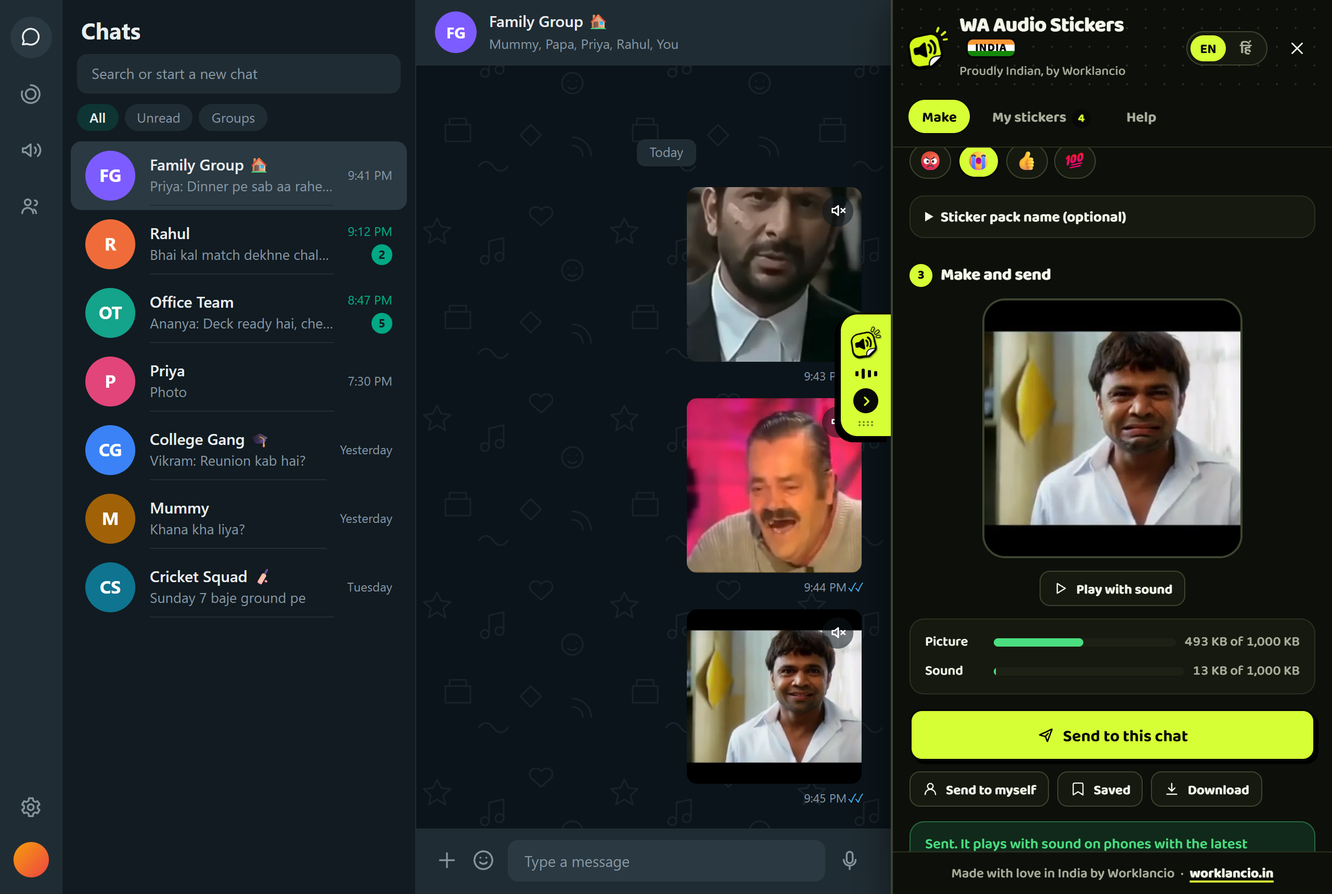
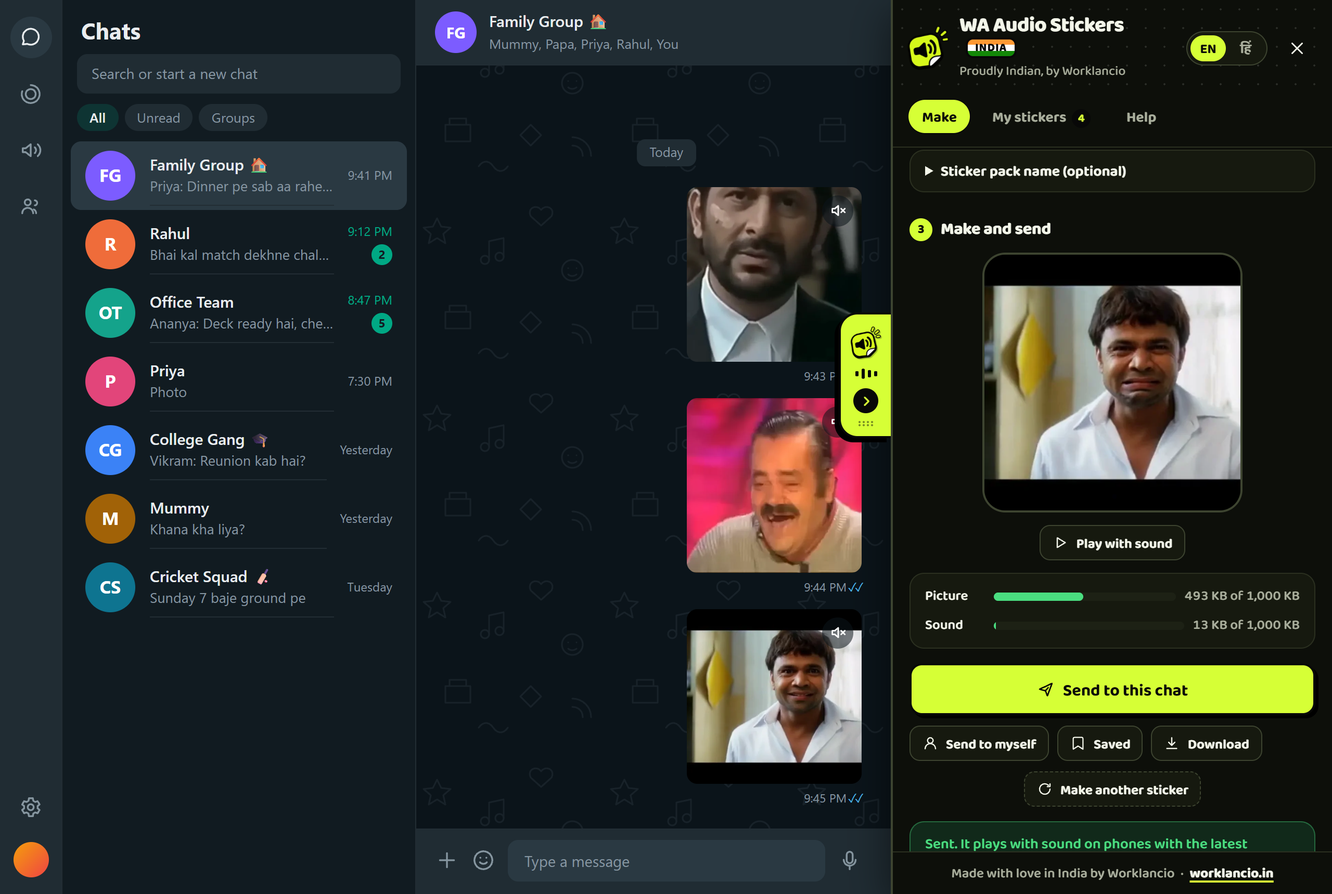
1.3.0: start over, drop anywhere, branded making screen
- Change swaps the clip straight away; Remove starts over; Make another
  appears once a sticker is made; asks first if a made sticker is not yet
  sent or saved
- Drag a file anywhere over the panel: a lime cover with a bouncing icon,
  and dropping replaces the clip
- Making your sticker: the logo wiggles in a spinning ring with sound bars,
  a big percentage and the step (sound, frames, packing)
- Screenshots retaken

Changed region(s): [[0.6562, 0.1541, 1.0, 0.8936], [0.5, 0.4314, 0.6562, 0.6471], [0.5, 0.1849, 0.6562, 0.4006]]

diff --git a/docs/index.html b/docs/index.html
@@ -30,7 +30,7 @@
 <meta name="twitter:title" content="WhatsApp Audio Stickers Maker: Free Stickers With Sound">
 <meta name="twitter:description" content="Make WhatsApp audio stickers (stickers with sound) from any video, GIF, photo or your voice, and send them from WhatsApp Web. Free, private, Hindi and English.">
 <meta name="twitter:image" content="https://xaviermsd.github.io/whatsapp-audio-stickers-india/brand/social-preview.png">
-<script type="application/ld+json">{"@context":"https://schema.org","@graph":[{"@type":"Organization","@id":"https://www.worklancio.in/#org","name":"Worklancio","url":"https://www.worklancio.in","email":"hello@worklancio.in","logo":"https://xaviermsd.github.io/whatsapp-audio-stickers-india/brand/worklancio-on-light.png","sameAs":["https://github.com/xaviermsd/whatsapp-audio-stickers-india","https://github.com/xaviermsd"],"founder":{"@type":"Person","name":"Harsh Prajapati"}},{"@type":"SoftwareApplication","@id":"https://xaviermsd.github.io/whatsapp-audio-stickers-india/#app","name":"WA Audio Stickers India","alternateName":["WhatsApp Audio Stickers India","WhatsApp audio sticker maker","WhatsApp sticker with sound maker"],"applicationCategory":"BrowserApplication","applicationSubCategory":"Chrome extension","operatingSystem":"Windows, macOS, Linux (Chrome, Edge, Brave 116+)","softwareVersion":"1.2.0","dateModified":"2026-11-27","description":"Free, open-source Chrome extension that makes WhatsApp stickers with sound from any video, GIF, photo or your voice, and sends them from WhatsApp Web.","url":"https://xaviermsd.github.io/whatsapp-audio-stickers-india/","downloadUrl":"https://github.com/xaviermsd/whatsapp-audio-stickers-india/releases/latest","installUrl":"https://github.com/xaviermsd/whatsapp-audio-stickers-india/releases/latest","screenshot":["https://xaviermsd.github.io/whatsapp-audio-stickers-india/screenshots/00-chat-light.png","https://xaviermsd.github.io/whatsapp-audio-stickers-india/screenshots/04-ready-light.png"],"image":"https://xaviermsd.github.io/whatsapp-audio-stickers-india/brand/social-preview.png","featureList":["Make WhatsApp audio stickers from video, GIF, photo or audio","Record voice or webcam video inside WhatsApp Web","Captions in Hindi, English and Hinglish","Speed control and boomerang loop","Saved sticker library with pack export and import","App in Hindi and English","Works offline on your computer, no upload"],"inLanguage":["en","hi"],"isAccessibleForFree":true,"license":"https://opensource.org/licenses/MIT","offers":{"@type":"Offer","price":"0","priceCurrency":"INR"},"author":{"@id":"https://www.worklancio.in/#org"},"publisher":{"@id":"https://www.worklancio.in/#org"},"codeRepository":"https://github.com/xaviermsd/whatsapp-audio-stickers-india","keywords":"WhatsApp audio stickers, WhatsApp stickers with sound, sound stickers WhatsApp, audio sticker maker, WhatsApp sticker maker with sound, how to send audio stickers on WhatsApp, WhatsApp Web stickers, voice sticker WhatsApp, meme stickers with sound, Hindi stickers, Chrome extension WhatsApp, WhatsApp audio sticker kaise banaye, awaaz wale sticker"},{"@type":"WebSite","@id":"https://xaviermsd.github.io/whatsapp-audio-stickers-india/#site","url":"https://xaviermsd.github.io/whatsapp-audio-stickers-india/","name":"WA Audio Stickers India","inLanguage":"en","publisher":{"@id":"https://www.worklancio.in/#org"}},{"@type":"FAQPage","mainEntity":[{"@type":"Question","name":"What are WhatsApp audio stickers?","acceptedAnswer":{"@type":"Answer","text":"WhatsApp audio stickers (also called sound stickers) are animated stickers that play a short sound when you tap them. WA Audio Stickers India lets you make them from any video, GIF, photo or your own voice and send them from WhatsApp Web."}},{"@type":"Question","name":"How do I send a sticker with sound on WhatsApp?","acceptedAnswer":{"@type":"Answer","text":"Install the free WA Audio Stickers India extension in Chrome, Edge or Brave, open web.whatsapp.com, click the lime tab, pick or record a clip, press Make sticker, then Send to this chat. Your friend taps the sticker and hears the sound."}},{"@type":"Question","name":"How do I make a WhatsApp sticker with sound from a video?","acceptedAnswer":{"@type":"Answer","text":"Open the WA Audio Stickers India panel in WhatsApp Web, drop your video (MP4, WebM or MOV), drag the two handles on the waveform to pick up to 15 seconds, press Make sticker and send it. The video keeps its own sound."}},{"@type":"Question","name":"How do I make a voice sticker for WhatsApp?","acceptedAnswer":{"@type":"Answer","text":"Press Record voice in the panel, speak, then stop. We turn your voice into a sticker with a moving sound wave, or put it over a photo you choose, ready to send."}},{"@type":"Question","name":"How do I pick the funny part of a clip?","acceptedAnswer":{"@type":"Answer","text":"Drag the two lime handles on the waveform, or drag the middle to slide the whole part. Press Play this part to hear it first, or type exact times in From and To."}},{"@type":"Question","name":"Which files can I turn into a sound sticker?","acceptedAnswer":{"@type":"Answer","text":"Videos (MP4, WebM, MOV), GIFs, photos (PNG, JPG, WebP) and audio (MP3, M4A, WAV, OGG). You can also record your voice or a selfie video right in the panel."}},{"@type":"Question","name":"Is WA Audio Stickers India free?","acceptedAnswer":{"@type":"Answer","text":"Yes. It is completely free and open source under the MIT licence, with no sign-up, no ads and no paid version."}},{"@type":"Question","name":"Is it safe and private?","acceptedAnswer":{"@type":"Answer","text":"Yes. Everything is made on your own computer. The extension only asks for storage and web.whatsapp.com, has no server and no tracking, and sends only when you click, one sticker at a time."}},{"@type":"Question","name":"Can I make audio stickers in Hindi?","acceptedAnswer":{"@type":"Answer","text":"Yes. You can add captions in Hindi, English or Hinglish, and the whole app can switch to Hindi with one tap."}},{"@type":"Question","name":"Will my friend hear the sound?","acceptedAnswer":{"@type":"Answer","text":"Yes, if their WhatsApp is up to date. The sound plays on Android, iPhone and WhatsApp Web when they tap the sticker."}},{"@type":"Question","name":"Does it work on my phone?","acceptedAnswer":{"@type":"Answer","text":"It runs on a computer, in WhatsApp Web. Use Send to myself, then forward or star the sticker from your phone to keep it in your sticker tray."}},{"@type":"Question","name":"Why does my sticker have no sound for my friend?","acceptedAnswer":{"@type":"Answer","text":"Their WhatsApp needs to be up to date to play sound stickers. If WhatsApp Web itself says it sent the picture without sound, reload WhatsApp Web and send again after a few seconds."}},{"@type":"Question","name":"How do I update to the newest version?","acceptedAnswer":{"@type":"Answer","text":"Download the latest zip from GitHub Releases, Extract All, then on chrome://extensions remove the old one and Load unpacked the new folder. Your saved stickers stay in your browser."}},{"@type":"Question","name":"Is this an official WhatsApp tool?","acceptedAnswer":{"@type":"Answer","text":"No. It is an unofficial, open-source tool made by Worklancio in India. It is not made by, linked to or approved by WhatsApp or Meta."}}]},{"@type":"HowTo","name":"How to make and send a WhatsApp audio sticker","totalTime":"PT2M","estimatedCost":{"@type":"MonetaryAmount","currency":"INR","value":"0"},"tool":[{"@type":"HowToTool","name":"Chrome, Edge or Brave on a computer"},{"@type":"HowToTool","name":"WhatsApp Web"}],"step":[{"@type":"HowToStep","position":1,"name":"Download the extension","text":"Get the free zip from the GitHub Releases page and unzip it.","url":"https://xaviermsd.github.io/whatsapp-audio-stickers-india/#step-1"},{"@type":"HowToStep","position":2,"name":"Load it in your browser","text":"Open chrome://extensions (or edge:// or brave://), turn on Developer mode and click Load unpacked.","url":"https://xaviermsd.github.io/whatsapp-audio-stickers-india/#step-2"},{"@type":"HowToStep","position":3,"name":"Open WhatsApp Web","text":"Go to web.whatsapp.com, open a chat and click the lime tab on the right edge.","url":"https://xaviermsd.github.io/whatsapp-audio-stickers-india/#step-3"},{"@type":"HowToStep","position":4,"name":"Pick or record a clip","text":"Drop a video, GIF, photo or audio file, or record your voice or a selfie video.","url":"https://xaviermsd.github.io/whatsapp-audio-stickers-india/#step-4"},{"@type":"HowToStep","position":5,"name":"Cut and style","text":"Drag the handles on the waveform to pick the best part (up to 15 seconds), play it, then set speed, volume and an optional caption.","url":"https://xaviermsd.github.io/whatsapp-audio-stickers-india/#step-5"},{"@type":"HowToStep","position":6,"name":"Make and send","text":"Press Make sticker, then Send to this chat. It plays with sound when tapped.","url":"https://xaviermsd.github.io/whatsapp-audio-stickers-india/#step-6"}]}]}</script>
+<script type="application/ld+json">{"@context":"https://schema.org","@graph":[{"@type":"Organization","@id":"https://www.worklancio.in/#org","name":"Worklancio","url":"https://www.worklancio.in","email":"hello@worklancio.in","logo":"https://xaviermsd.github.io/whatsapp-audio-stickers-india/brand/worklancio-on-light.png","sameAs":["https://github.com/xaviermsd/whatsapp-audio-stickers-india","https://github.com/xaviermsd"],"founder":{"@type":"Person","name":"Harsh Prajapati"}},{"@type":"SoftwareApplication","@id":"https://xaviermsd.github.io/whatsapp-audio-stickers-india/#app","name":"WA Audio Stickers India","alternateName":["WhatsApp Audio Stickers India","WhatsApp audio sticker maker","WhatsApp sticker with sound maker"],"applicationCategory":"BrowserApplication","applicationSubCategory":"Chrome extension","operatingSystem":"Windows, macOS, Linux (Chrome, Edge, Brave 116+)","softwareVersion":"1.3.0","dateModified":"2026-11-27","description":"Free, open-source Chrome extension that makes WhatsApp stickers with sound from any video, GIF, photo or your voice, and sends them from WhatsApp Web.","url":"https://xaviermsd.github.io/whatsapp-audio-stickers-india/","downloadUrl":"https://github.com/xaviermsd/whatsapp-audio-stickers-india/releases/latest","installUrl":"https://github.com/xaviermsd/whatsapp-audio-stickers-india/releases/latest","screenshot":["https://xaviermsd.github.io/whatsapp-audio-stickers-india/screenshots/00-chat-light.png","https://xaviermsd.github.io/whatsapp-audio-stickers-india/screenshots/04-ready-light.png"],"image":"https://xaviermsd.github.io/whatsapp-audio-stickers-india/brand/social-preview.png","featureList":["Make WhatsApp audio stickers from video, GIF, photo or audio","Record voice or webcam video inside WhatsApp Web","Captions in Hindi, English and Hinglish","Speed control and boomerang loop","Saved sticker library with pack export and import","App in Hindi and English","Works offline on your computer, no upload"],"inLanguage":["en","hi"],"isAccessibleForFree":true,"license":"https://opensource.org/licenses/MIT","offers":{"@type":"Offer","price":"0","priceCurrency":"INR"},"author":{"@id":"https://www.worklancio.in/#org"},"publisher":{"@id":"https://www.worklancio.in/#org"},"codeRepository":"https://github.com/xaviermsd/whatsapp-audio-stickers-india","keywords":"WhatsApp audio stickers, WhatsApp stickers with sound, sound stickers WhatsApp, audio sticker maker, WhatsApp sticker maker with sound, how to send audio stickers on WhatsApp, WhatsApp Web stickers, voice sticker WhatsApp, meme stickers with sound, Hindi stickers, Chrome extension WhatsApp, WhatsApp audio sticker kaise banaye, awaaz wale sticker"},{"@type":"WebSite","@id":"https://xaviermsd.github.io/whatsapp-audio-stickers-india/#site","url":"https://xaviermsd.github.io/whatsapp-audio-stickers-india/","name":"WA Audio Stickers India","inLanguage":"en","publisher":{"@id":"https://www.worklancio.in/#org"}},{"@type":"FAQPage","mainEntity":[{"@type":"Question","name":"What are WhatsApp audio stickers?","acceptedAnswer":{"@type":"Answer","text":"WhatsApp audio stickers (also called sound stickers) are animated stickers that play a short sound when you tap them. WA Audio Stickers India lets you make them from any video, GIF, photo or your own voice and send them from WhatsApp Web."}},{"@type":"Question","name":"How do I send a sticker with sound on WhatsApp?","acceptedAnswer":{"@type":"Answer","text":"Install the free WA Audio Stickers India extension in Chrome, Edge or Brave, open web.whatsapp.com, click the lime tab, pick or record a clip, press Make sticker, then Send to this chat. Your friend taps the sticker and hears the sound."}},{"@type":"Question","name":"How do I make a WhatsApp sticker with sound from a video?","acceptedAnswer":{"@type":"Answer","text":"Open the WA Audio Stickers India panel in WhatsApp Web, drop your video (MP4, WebM or MOV), drag the two handles on the waveform to pick up to 15 seconds, press Make sticker and send it. The video keeps its own sound."}},{"@type":"Question","name":"How do I make a voice sticker for WhatsApp?","acceptedAnswer":{"@type":"Answer","text":"Press Record voice in the panel, speak, then stop. We turn your voice into a sticker with a moving sound wave, or put it over a photo you choose, ready to send."}},{"@type":"Question","name":"How do I pick the funny part of a clip?","acceptedAnswer":{"@type":"Answer","text":"Drag the two lime handles on the waveform, or drag the middle to slide the whole part. Press Play this part to hear it first, or type exact times in From and To."}},{"@type":"Question","name":"Which files can I turn into a sound sticker?","acceptedAnswer":{"@type":"Answer","text":"Videos (MP4, WebM, MOV), GIFs, photos (PNG, JPG, WebP) and audio (MP3, M4A, WAV, OGG). You can also record your voice or a selfie video right in the panel."}},{"@type":"Question","name":"Is WA Audio Stickers India free?","acceptedAnswer":{"@type":"Answer","text":"Yes. It is completely free and open source under the MIT licence, with no sign-up, no ads and no paid version."}},{"@type":"Question","name":"Is it safe and private?","acceptedAnswer":{"@type":"Answer","text":"Yes. Everything is made on your own computer. The extension only asks for storage and web.whatsapp.com, has no server and no tracking, and sends only when you click, one sticker at a time."}},{"@type":"Question","name":"Can I make audio stickers in Hindi?","acceptedAnswer":{"@type":"Answer","text":"Yes. You can add captions in Hindi, English or Hinglish, and the whole app can switch to Hindi with one tap."}},{"@type":"Question","name":"Will my friend hear the sound?","acceptedAnswer":{"@type":"Answer","text":"Yes, if their WhatsApp is up to date. The sound plays on Android, iPhone and WhatsApp Web when they tap the sticker."}},{"@type":"Question","name":"Does it work on my phone?","acceptedAnswer":{"@type":"Answer","text":"It runs on a computer, in WhatsApp Web. Use Send to myself, then forward or star the sticker from your phone to keep it in your sticker tray."}},{"@type":"Question","name":"Why does my sticker have no sound for my friend?","acceptedAnswer":{"@type":"Answer","text":"Their WhatsApp needs to be up to date to play sound stickers. If WhatsApp Web itself says it sent the picture without sound, reload WhatsApp Web and send again after a few seconds."}},{"@type":"Question","name":"How do I update to the newest version?","acceptedAnswer":{"@type":"Answer","text":"Download the latest zip from GitHub Releases, Extract All, then on chrome://extensions remove the old one and Load unpacked the new folder. Your saved stickers stay in your browser."}},{"@type":"Question","name":"Is this an official WhatsApp tool?","acceptedAnswer":{"@type":"Answer","text":"No. It is an unofficial, open-source tool made by Worklancio in India. It is not made by, linked to or approved by WhatsApp or Meta."}}]},{"@type":"HowTo","name":"How to make and send a WhatsApp audio sticker","totalTime":"PT2M","estimatedCost":{"@type":"MonetaryAmount","currency":"INR","value":"0"},"tool":[{"@type":"HowToTool","name":"Chrome, Edge or Brave on a computer"},{"@type":"HowToTool","name":"WhatsApp Web"}],"step":[{"@type":"HowToStep","position":1,"name":"Download the extension","text":"Get the free zip from the GitHub Releases page and unzip it.","url":"https://xaviermsd.github.io/whatsapp-audio-stickers-india/#step-1"},{"@type":"HowToStep","position":2,"name":"Load it in your browser","text":"Open chrome://extensions (or edge:// or brave://), turn on Developer mode and click Load unpacked.","url":"https://xaviermsd.github.io/whatsapp-audio-stickers-india/#step-2"},{"@type":"HowToStep","position":3,"name":"Open WhatsApp Web","text":"Go to web.whatsapp.com, open a chat and click the lime tab on the right edge.","url":"https://xaviermsd.github.io/whatsapp-audio-stickers-india/#step-3"},{"@type":"HowToStep","position":4,"name":"Pick or record a clip","text":"Drop a video, GIF, photo or audio file, or record your voice or a selfie video.","url":"https://xaviermsd.github.io/whatsapp-audio-stickers-india/#step-4"},{"@type":"HowToStep","position":5,"name":"Cut and style","text":"Drag the handles on the waveform to pick the best part (up to 15 seconds), play it, then set speed, volume and an optional caption.","url":"https://xaviermsd.github.io/whatsapp-audio-stickers-india/#step-5"},{"@type":"HowToStep","position":6,"name":"Make and send","text":"Press Make sticker, then Send to this chat. It plays with sound when tapped.","url":"https://xaviermsd.github.io/whatsapp-audio-stickers-india/#step-6"}]}]}</script>
 <!-- /SEO:HEAD -->
 <link rel="icon" href="assets/favicon-32.png" sizes="32x32">
 <link rel="apple-touch-icon" href="assets/icon-128.png">

diff --git a/extension/ui/panel.js b/extension/ui/panel.js
@@ -93,6 +93,7 @@
     launcher = buildHandle();
     panel = h("div", { class: "panel", role: "dialog", "aria-label": t("title"), hidden: true });
     wrap.append(launcher, panel);
+    setupPanelDrop();
     document.documentElement.append(host);
     applyTheme();
     new MutationObserver(applyTheme).observe(document.body || document.documentElement, { attributes: true, attributeFilter: ["class"] });
@@ -331,12 +332,7 @@
           drop.dataset.over = "true";
         },
         ondragleave: () => (drop.dataset.over = "false"),
-        ondrop: (e) => {
-          e.preventDefault();
-          drop.dataset.over = "false";
-          const f = e.dataTransfer.files[0];
-          f && pick(f);
-        },
+        ondrop: () => (drop.dataset.over = "false"), // the panel-wide drop handler takes the file
       },
       h("span", { class: "bubble" }, icon("upload")),
       h("strong", { text: job.state === "loading" ? J.LABELS.loading[WASI.i18n.lang] || J.LABELS.loading.en : t("drop") }),
@@ -446,7 +442,7 @@
       {},
       stepTitle(1, "step1"),
       pv,
-      h("div", { class: "row" }, h("span", { class: "filename", style: "flex:1", text: s.file ? s.file.name : "" }), btn(t("chooseFile"), "upload", resetToPick, "btn small")),
+      h("div", { class: "row clip-row" }, h("span", { class: "filename", style: "flex:1", text: s.file ? s.file.name : "" }), changePicker(), btn(t("changeClip"), "upload", () => mainEl.querySelector(".change-picker").click(), "btn small"), btn(t("removeClip"), "trash", () => startOver(), "btn small danger")),
       extra
     );
   }
@@ -817,10 +813,23 @@
     if (job.state === "building") {
       const bar = h("div", {}, h("div", { style: `width:${Math.round(job.progress * 100)}%` }));
       bar.className = "progress";
+      const art = h(
+        "div",
+        { class: "buildart", "aria-hidden": "true" },
+        h("div", { class: "buildart-ring" }),
+        logoUrl ? h("img", { class: "buildart-logo", src: logoUrl, alt: "", draggable: "false" }) : h("div", { class: "buildart-logo" }, icon("sound")),
+        h("div", { class: "buildart-waves" }, h("i"), h("i"), h("i"), h("i"), h("i"))
+      );
       sec.append(
-        h("p", { class: "length", text: J.LABELS.building[WASI.i18n.lang] || J.LABELS.building.en }),
-        bar,
-        h("div", { class: "row", style: "margin-top:10px" }, btn(t("cancel"), "close", cancelBuild))
+        h(
+          "div",
+          { class: "buildbox", role: "status", "aria-live": "polite" },
+          art,
+          h("div", { class: "buildpct", text: Math.round(job.progress * 100) + "%" }),
+          h("p", { class: "buildstage", text: stageText(job.progress) }),
+          bar,
+          h("div", { class: "row", style: "justify-content:center;margin-top:12px" }, btn(t("cancel"), "close", cancelBuild, "btn small"))
+        )
       );
       return sec;
     }
@@ -842,7 +851,8 @@
         h("div", { class: "row" },
           btn(t("sendMe"), "user", () => sendBuilt("me"), "btn small"),
           btn(built.savedId ? t("saved") : t("save"), "save", saveBuilt, "btn small"),
-          btn(t("download"), "download", () => download(built), "btn small"))
+          btn(t("download"), "download", () => download(built), "btn small")),
+        h("div", { class: "row another-row" }, btn(t("makeAnother"), "refresh", () => startOver(), "btn small ghost"))
       );
       if (job.state === "sending") sec.querySelectorAll("button").forEach((b) => (b.disabled = true));
       return sec;
@@ -859,6 +869,79 @@
   function refreshBuild() {
     const sec = mainEl && mainEl.querySelector("[data-build]");
     if (sec) sec.replaceWith(buildSection());
+  }
+
+  // ---------- start over, change the clip ----------
+  // Which part of the work is running, from the progress the build reports (sound 0-10%, frames 10-55%, file 55-100%).
+  function stageText(p) {
+    return p < 0.1 ? t("stageSound") : p < 0.55 ? t("stageFrames") : t("stagePack");
+  }
+
+  // A sticker that was made but neither sent nor saved would be lost: ask first.
+  function startOver() {
+    const unsent = built && !built.savedId && job.state !== "sent";
+    if (unsent && !root.confirm(t("confirmDiscard"))) return;
+    resetToPick();
+  }
+
+  // A hidden file input that swaps the clip straight away (no trip back to the empty screen).
+  function changePicker() {
+    const input = h("input", { type: "file", class: "change-picker", accept: "video/*,image/*,audio/*,.gif,.webp,.mp3,.m4a,.ogg,.opus,.wav", hidden: true });
+    input.addEventListener("change", () => {
+      const f = input.files[0];
+      if (!f) return;
+      const unsent = built && !built.savedId && job.state !== "sent";
+      if (unsent && !root.confirm(t("confirmDiscard"))) return;
+      cancelBuild();
+      pick(f);
+    });
+    return input;
+  }
+
+  // Drag a file anywhere over the panel: a lime cover with a bouncing icon, drop to use it (replaces the clip).
+  function setupPanelDrop() {
+    let depth = 0;
+    const cover = h(
+      "div",
+      { class: "dropcover", "aria-hidden": "true" },
+      h("div", { class: "dropcover-card" }, h("span", { class: "dropcover-icon" }, icon("upload")), h("strong", { text: t("dropHere") }), h("span", { text: t("dropKinds") }))
+    );
+    panel.parentElement.append(cover);
+    const hasFiles = (e) => e.dataTransfer && [...e.dataTransfer.types].includes("Files");
+    const show = (on) => {
+      cover.classList.toggle("on", on);
+      host.dataset.wasiDrag = String(on);
+    };
+    panel.addEventListener("dragenter", (e) => {
+      if (!hasFiles(e)) return;
+      e.preventDefault();
+      depth++;
+      show(true);
+    });
+    panel.addEventListener("dragover", (e) => {
+      if (!hasFiles(e)) return;
+      e.preventDefault();
+      e.dataTransfer.dropEffect = "copy";
+    });
+    panel.addEventListener("dragleave", (e) => {
+      if (!hasFiles(e)) return;
+      depth = Math.max(0, depth - 1);
+      if (!depth) show(false);
+    });
+    panel.addEventListener("drop", (e) => {
+      if (!hasFiles(e)) return;
+      e.preventDefault();
+      e.stopPropagation();
+      depth = 0;
+      show(false);
+      const f = e.dataTransfer.files[0];
+      if (!f) return;
+      const unsent = built && !built.savedId && job.state !== "sent";
+      if (unsent && !root.confirm(t("confirmDiscard"))) return;
+      cancelBuild();
+      tab = "make";
+      pick(f);
+    });
   }
 
   // ---------- loading a clip ----------
@@ -1001,6 +1084,10 @@
       if (dispatch({ type: "progress", run, value: base + p * span })) {
         const bar = mainEl && mainEl.querySelector(".progress > div");
         if (bar) bar.style.width = `${Math.round(job.progress * 100)}%`;
+        const pct = mainEl && mainEl.querySelector(".buildpct");
+        if (pct) pct.textContent = Math.round(job.progress * 100) + "%";
+        const st = mainEl && mainEl.querySelector(".buildstage");
+        if (st) st.textContent = stageText(job.progress);
       }
     };
     let frames = [];

diff --git a/docs/hi/index.html b/docs/hi/index.html
@@ -28,7 +28,7 @@
 <meta name="twitter:title" content="WhatsApp ऑडियो स्टिकर बनाएँ: आवाज़ वाले स्टिकर, मुफ़्त">
 <meta name="twitter:description" content="किसी भी वीडियो, GIF, फ़ोटो या अपनी आवाज़ से आवाज़ वाले WhatsApp स्टिकर बनाएँ और WhatsApp Web से भेजें। मुफ़्त, निजी, हिंदी और English में।">
 <meta name="twitter:image" content="https://xaviermsd.github.io/whatsapp-audio-stickers-india/brand/social-preview.png">
-<script type="application/ld+json">{"@context":"https://schema.org","@graph":[{"@type":"Organization","@id":"https://www.worklancio.in/#org","name":"Worklancio","url":"https://www.worklancio.in","email":"hello@worklancio.in","logo":"https://xaviermsd.github.io/whatsapp-audio-stickers-india/brand/worklancio-on-light.png","sameAs":["https://github.com/xaviermsd/whatsapp-audio-stickers-india","https://github.com/xaviermsd"],"founder":{"@type":"Person","name":"Harsh Prajapati"}},{"@type":"SoftwareApplication","@id":"https://xaviermsd.github.io/whatsapp-audio-stickers-india/hi/#app","name":"WA Audio Stickers India","alternateName":["WhatsApp Audio Stickers India","WhatsApp audio sticker maker","WhatsApp sticker with sound maker"],"applicationCategory":"BrowserApplication","applicationSubCategory":"Chrome extension","operatingSystem":"Windows, macOS, Linux (Chrome, Edge, Brave 116+)","softwareVersion":"1.2.0","dateModified":"2026-11-27","description":"Free, open-source Chrome extension that makes WhatsApp stickers with sound from any video, GIF, photo or your voice, and sends them from WhatsApp Web.","url":"https://xaviermsd.github.io/whatsapp-audio-stickers-india/hi/","downloadUrl":"https://github.com/xaviermsd/whatsapp-audio-stickers-india/releases/latest","installUrl":"https://github.com/xaviermsd/whatsapp-audio-stickers-india/releases/latest","screenshot":["https://xaviermsd.github.io/whatsapp-audio-stickers-india/screenshots/00-chat-light.png","https://xaviermsd.github.io/whatsapp-audio-stickers-india/screenshots/04-ready-light.png"],"image":"https://xaviermsd.github.io/whatsapp-audio-stickers-india/brand/social-preview.png","featureList":["Make WhatsApp audio stickers from video, GIF, photo or audio","Record voice or webcam video inside WhatsApp Web","Captions in Hindi, English and Hinglish","Speed control and boomerang loop","Saved sticker library with pack export and import","App in Hindi and English","Works offline on your computer, no upload"],"inLanguage":"hi","isAccessibleForFree":true,"license":"https://opensource.org/licenses/MIT","offers":{"@type":"Offer","price":"0","priceCurrency":"INR"},"author":{"@id":"https://www.worklancio.in/#org"},"publisher":{"@id":"https://www.worklancio.in/#org"},"codeRepository":"https://github.com/xaviermsd/whatsapp-audio-stickers-india","keywords":"WhatsApp audio stickers, WhatsApp stickers with sound, sound stickers WhatsApp, audio sticker maker, WhatsApp sticker maker with sound, how to send audio stickers on WhatsApp, WhatsApp Web stickers, voice sticker WhatsApp, meme stickers with sound, Hindi stickers, Chrome extension WhatsApp, WhatsApp audio sticker kaise banaye, awaaz wale sticker"}]}</script>
+<script type="application/ld+json">{"@context":"https://schema.org","@graph":[{"@type":"Organization","@id":"https://www.worklancio.in/#org","name":"Worklancio","url":"https://www.worklancio.in","email":"hello@worklancio.in","logo":"https://xaviermsd.github.io/whatsapp-audio-stickers-india/brand/worklancio-on-light.png","sameAs":["https://github.com/xaviermsd/whatsapp-audio-stickers-india","https://github.com/xaviermsd"],"founder":{"@type":"Person","name":"Harsh Prajapati"}},{"@type":"SoftwareApplication","@id":"https://xaviermsd.github.io/whatsapp-audio-stickers-india/hi/#app","name":"WA Audio Stickers India","alternateName":["WhatsApp Audio Stickers India","WhatsApp audio sticker maker","WhatsApp sticker with sound maker"],"applicationCategory":"BrowserApplication","applicationSubCategory":"Chrome extension","operatingSystem":"Windows, macOS, Linux (Chrome, Edge, Brave 116+)","softwareVersion":"1.3.0","dateModified":"2026-11-27","description":"Free, open-source Chrome extension that makes WhatsApp stickers with sound from any video, GIF, photo or your voice, and sends them from WhatsApp Web.","url":"https://xaviermsd.github.io/whatsapp-audio-stickers-india/hi/","downloadUrl":"https://github.com/xaviermsd/whatsapp-audio-stickers-india/releases/latest","installUrl":"https://github.com/xaviermsd/whatsapp-audio-stickers-india/releases/latest","screenshot":["https://xaviermsd.github.io/whatsapp-audio-stickers-india/screenshots/00-chat-light.png","https://xaviermsd.github.io/whatsapp-audio-stickers-india/screenshots/04-ready-light.png"],"image":"https://xaviermsd.github.io/whatsapp-audio-stickers-india/brand/social-preview.png","featureList":["Make WhatsApp audio stickers from video, GIF, photo or audio","Record voice or webcam video inside WhatsApp Web","Captions in Hindi, English and Hinglish","Speed control and boomerang loop","Saved sticker library with pack export and import","App in Hindi and English","Works offline on your computer, no upload"],"inLanguage":"hi","isAccessibleForFree":true,"license":"https://opensource.org/licenses/MIT","offers":{"@type":"Offer","price":"0","priceCurrency":"INR"},"author":{"@id":"https://www.worklancio.in/#org"},"publisher":{"@id":"https://www.worklancio.in/#org"},"codeRepository":"https://github.com/xaviermsd/whatsapp-audio-stickers-india","keywords":"WhatsApp audio stickers, WhatsApp stickers with sound, sound stickers WhatsApp, audio sticker maker, WhatsApp sticker maker with sound, how to send audio stickers on WhatsApp, WhatsApp Web stickers, voice sticker WhatsApp, meme stickers with sound, Hindi stickers, Chrome extension WhatsApp, WhatsApp audio sticker kaise banaye, awaaz wale sticker"}]}</script>
 <!-- /SEO:HEAD -->
 <link rel="icon" href="../assets/favicon-32.png" sizes="32x32">
 <meta name="theme-color" content="#d6ff36">

diff --git a/extension/ui/styles.js b/extension/ui/styles.js
@@ -259,6 +259,56 @@ footer a { color: var(--text); font-weight: 800; text-decoration: underline; tex
 .recdot { width: 12px; height: 12px; border-radius: 50%; background: var(--danger); animation: pulse 1s ease-in-out infinite; }
 .rectime { font-size: 28px; font-weight: 800; font-variant-numeric: tabular-nums; }
 @keyframes pulse { 50% { opacity: 0.3; } }
+/* Clip row: Change and Remove */
+.clip-row .btn.danger { color: var(--danger); }
+.clip-row .btn.danger:hover:not([disabled]) { border-color: var(--danger); background: var(--danger-soft); }
+.another-row { justify-content: center; margin-top: 6px; }
+.btn.ghost { border-style: dashed; }
+
+/* Drop cover: drag a file anywhere over the panel */
+.dropcover {
+  position: fixed; top: 0; right: 0; bottom: 0; z-index: 2147483003; width: min(424px, 100vw);
+  display: grid; place-items: center; padding: 22px; pointer-events: none; opacity: 0;
+  background: color-mix(in srgb, var(--bg) 70%, transparent); backdrop-filter: blur(3px);
+  transition: opacity 160ms var(--ease);
+}
+.dropcover.on { opacity: 1; }
+.dropcover-card {
+  display: grid; justify-items: center; gap: 8px; width: 100%; height: 100%; place-content: center; text-align: center;
+  border: 3px dashed var(--ink-fixed); border-radius: 24px; background: var(--soft-lime);
+  transform: scale(.96); transition: transform 220ms var(--ease);
+}
+.wasi[data-theme="dark"] .dropcover-card { border-color: var(--lime); }
+.dropcover.on .dropcover-card { transform: scale(1); }
+.dropcover-card strong { font-size: 26px; font-weight: 800; color: var(--text); }
+.dropcover-card span:last-child { color: var(--muted); font-weight: 600; }
+.dropcover-icon {
+  display: grid; place-items: center; width: 76px; height: 76px; border: 2.5px solid var(--ink-fixed); border-radius: 22px;
+  background: var(--lime); color: var(--ink-fixed); box-shadow: 4px 4px 0 0 var(--ink-fixed);
+}
+.dropcover-icon svg { width: 36px; height: 36px; stroke-width: 2.2; }
+.dropcover.on .dropcover-icon { animation: wasi-bob 900ms var(--ease) infinite alternate; }
+@keyframes wasi-bob { from { transform: translateY(4px); } to { transform: translateY(-8px); } }
+
+/* Making your sticker */
+.buildbox { display: grid; justify-items: center; gap: 6px; padding: 22px 18px 16px; border: 2px solid var(--brut-border); border-radius: 22px; background: var(--surface); }
+.buildbox .progress { width: 100%; }
+.buildart { position: relative; display: grid; place-items: center; width: 132px; height: 132px; margin-bottom: 4px; }
+.buildart-ring { position: absolute; inset: 0; border-radius: 50%; border: 3px dashed var(--line-strong); animation: wasi-spin 6s linear infinite; }
+.buildart-logo { width: 84px; height: 84px; display: grid; place-items: center; animation: wasi-wiggle 1.1s var(--ease) infinite; filter: drop-shadow(3px 3px 0 rgb(8 8 8 / .25)); }
+.buildart-logo svg { width: 48px; height: 48px; }
+.buildart-waves { position: absolute; bottom: -2px; display: flex; gap: 4px; align-items: center; height: 22px; padding: 3px 9px; border: 2px solid var(--ink-fixed); border-radius: 999px; background: var(--lime); }
+.buildart-waves i { width: 4px; height: 100%; border-radius: 3px; background: var(--ink-fixed); animation: wasi-wave 700ms ease-in-out infinite; }
+.buildart-waves i:nth-child(2) { animation-delay: -150ms; }
+.buildart-waves i:nth-child(3) { animation-delay: -330ms; }
+.buildart-waves i:nth-child(4) { animation-delay: -480ms; }
+.buildart-waves i:nth-child(5) { animation-delay: -600ms; }
+@keyframes wasi-spin { to { transform: rotate(360deg); } }
+@keyframes wasi-wiggle { 0%, 100% { transform: rotate(-6deg) scale(1); } 50% { transform: rotate(6deg) scale(1.06); } }
+.buildpct { font-size: 34px; font-weight: 800; line-height: 1; font-variant-numeric: tabular-nums; }
+.buildstage { margin: 0 0 6px; color: var(--muted); font-weight: 700; }
+
+@media (prefers-reduced-motion: reduce) { .buildart-ring, .buildart-logo, .buildart-waves i, .dropcover.on .dropcover-icon { animation: none !important; } }
 @media (prefers-reduced-motion: reduce) { .handle-waves i { animation: none !important; } .handle-chev svg, .panel, .handle, .progress > div, .btn { transition: none; } .recdot { animation: none; } }
 `;
 })(typeof globalThis !== "undefined" ? globalThis : this);

diff --git a/extension/lib/i18n.js b/extension/lib/i18n.js
@@ -37,6 +37,15 @@
       start: "Start",
       end: "End",
       length: "Length",
+      changeClip: "Change",
+      removeClip: "Remove",
+      makeAnother: "Make another sticker",
+      confirmDiscard: "Start over? The sticker you made is not sent or saved yet.",
+      dropHere: "Drop it here",
+      dropKinds: "Video, GIF, photo or audio",
+      stageSound: "Making the sound",
+      stageFrames: "Reading the frames",
+      stagePack: "Packing your sticker",
       from: "From",
       to: "To",
       playPart: "Play this part",
@@ -144,6 +153,15 @@
       start: "शुरू",
       end: "अंत",
       length: "लंबाई",
+      changeClip: "बदलें",
+      removeClip: "हटाएँ",
+      makeAnother: "एक और स्टिकर बनाएँ",
+      confirmDiscard: "फिर से शुरू करें? आपका बनाया स्टिकर अभी भेजा या रखा नहीं गया है।",
+      dropHere: "यहाँ छोड़ें",
+      dropKinds: "वीडियो, GIF, फ़ोटो या ऑडियो",
+      stageSound: "आवाज़ बन रही है",
+      stageFrames: "फ़्रेम पढ़े जा रहे हैं",
+      stagePack: "आपका स्टिकर तैयार हो रहा है",
       from: "से",
       to: "तक",
       playPart: "यह हिस्सा सुनें",
